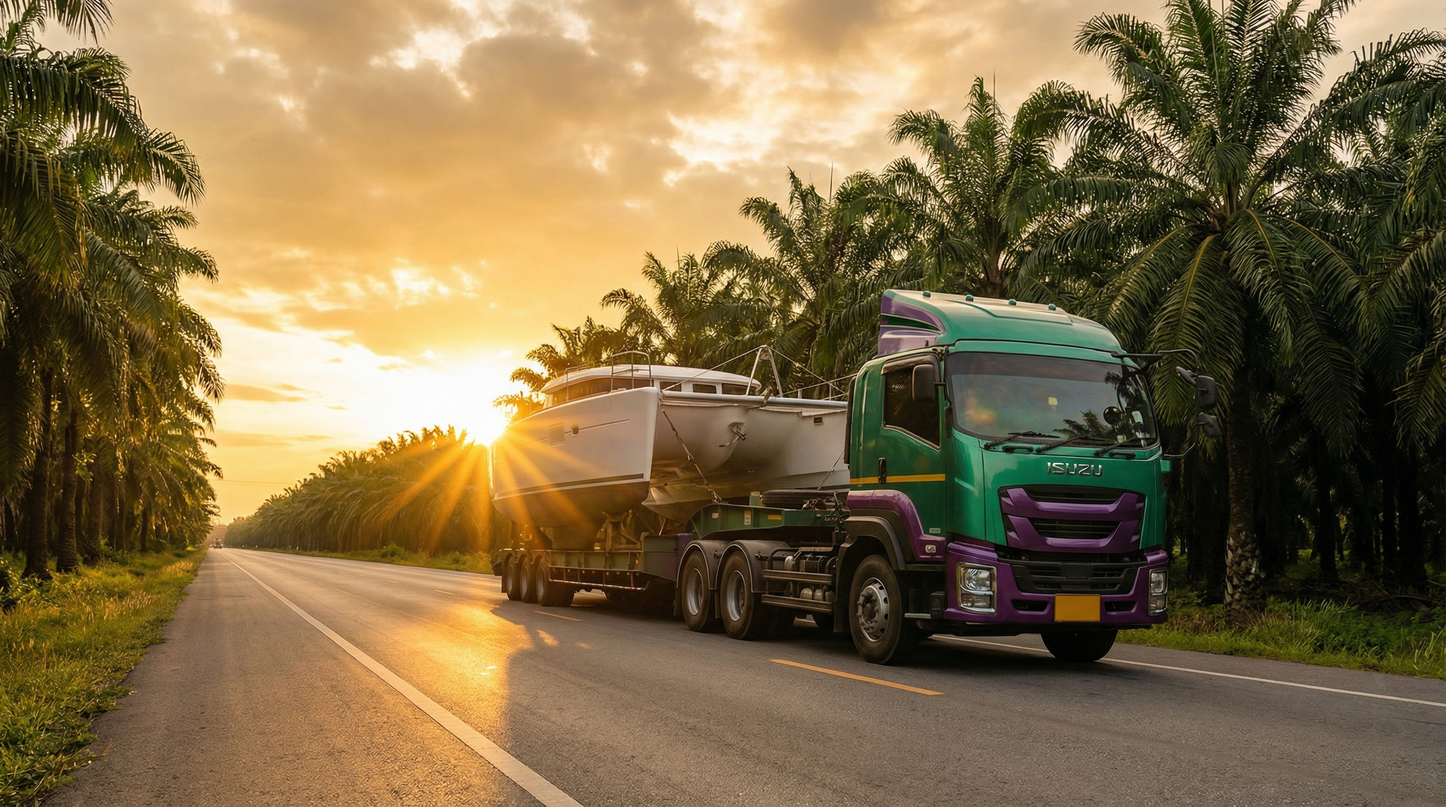
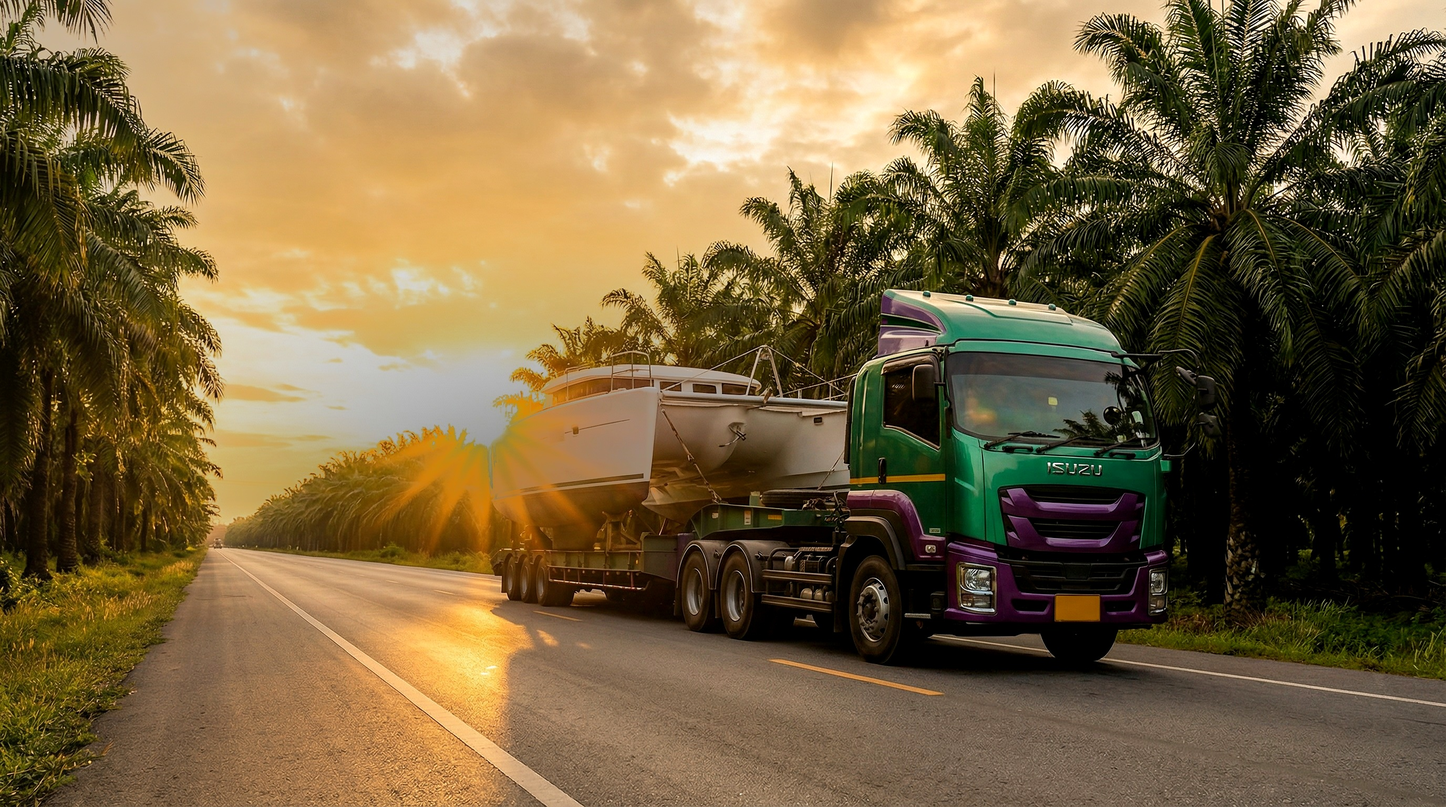
Hero: processed image (sun tamed, truck focal point), fixed insignia ornament (clean dot-diamond-dot)

diff --git a/client/src/pages/Home.tsx b/client/src/pages/Home.tsx
@@ -286,16 +286,16 @@ export default function Home() {
           >
 
             {/* ── TOP INSIGNIA ── */}
-            <div className="flex items-center justify-center gap-5 w-full max-w-xl mx-auto mb-5">
+            <div className="flex items-center justify-center gap-3 w-full max-w-xl mx-auto mb-5">
               <div className="flex-1 h-px" style={{ background: "linear-gradient(90deg, transparent, rgba(0,200,200,0.75))" }} />
-              {/* SVG refined ornament — dot · line · diamond · line · dot */}
-              <svg width="52" height="12" viewBox="0 0 52 12" fill="none" xmlns="http://www.w3.org/2000/svg">
-                <circle cx="3" cy="6" r="2" fill="rgba(0,200,200,0.9)" style={{ filter: "drop-shadow(0 0 4px rgba(0,200,200,0.9))" }} />
-                <line x1="7" y1="6" x2="19" y2="6" stroke="rgba(0,200,200,0.5)" strokeWidth="0.75"/>
-                <rect x="22" y="1.5" width="8" height="8" rx="0" transform="rotate(45 26 6)" fill="none" stroke="rgba(0,200,200,0.95)" strokeWidth="1.2" style={{ filter: "drop-shadow(0 0 5px rgba(0,200,200,0.8))" }} />
-                <line x1="33" y1="6" x2="45" y2="6" stroke="rgba(0,200,200,0.5)" strokeWidth="0.75"/>
-                <circle cx="49" cy="6" r="2" fill="rgba(0,200,200,0.9)" style={{ filter: "drop-shadow(0 0 4px rgba(0,200,200,0.9))" }} />
-              </svg>
+              {/* Ornament: dot · diamond · dot — no connector lines */}
+              <div className="flex items-center gap-2.5">
+                <div className="w-1.5 h-1.5 rounded-full flex-shrink-0" style={{ background: "rgba(0,200,200,1)", boxShadow: "0 0 6px rgba(0,200,200,1), 0 0 14px rgba(0,200,200,0.5)" }} />
+                <svg width="12" height="12" viewBox="0 0 12 12" fill="none" xmlns="http://www.w3.org/2000/svg" className="flex-shrink-0">
+                  <rect x="1.5" y="1.5" width="9" height="9" transform="rotate(45 6 6)" fill="none" stroke="rgba(0,200,200,0.95)" strokeWidth="1.3" style={{ filter: "drop-shadow(0 0 4px rgba(0,200,200,0.85))" }} />
+                </svg>
+                <div className="w-1.5 h-1.5 rounded-full flex-shrink-0" style={{ background: "rgba(0,200,200,1)", boxShadow: "0 0 6px rgba(0,200,200,1), 0 0 14px rgba(0,200,200,0.5)" }} />
+              </div>
               <div className="flex-1 h-px" style={{ background: "linear-gradient(90deg, rgba(0,200,200,0.75), transparent)" }} />
             </div>
 
@@ -331,15 +331,15 @@ export default function Home() {
             </div>
 
             {/* ── BOTTOM INSIGNIA ── */}
-            <div className="flex items-center justify-center gap-5 w-full max-w-xl mx-auto mb-7">
+            <div className="flex items-center justify-center gap-3 w-full max-w-xl mx-auto mb-7">
               <div className="flex-1 h-px" style={{ background: "linear-gradient(90deg, transparent, rgba(0,200,200,0.75))" }} />
-              <svg width="52" height="12" viewBox="0 0 52 12" fill="none" xmlns="http://www.w3.org/2000/svg">
-                <circle cx="3" cy="6" r="2" fill="rgba(0,200,200,0.9)" style={{ filter: "drop-shadow(0 0 4px rgba(0,200,200,0.9))" }} />
-                <line x1="7" y1="6" x2="19" y2="6" stroke="rgba(0,200,200,0.5)" strokeWidth="0.75"/>
-                <rect x="22" y="1.5" width="8" height="8" rx="0" transform="rotate(45 26 6)" fill="none" stroke="rgba(0,200,200,0.95)" strokeWidth="1.2" style={{ filter: "drop-shadow(0 0 5px rgba(0,200,200,0.8))" }} />
-                <line x1="33" y1="6" x2="45" y2="6" stroke="rgba(0,200,200,0.5)" strokeWidth="0.75"/>
-                <circle cx="49" cy="6" r="2" fill="rgba(0,200,200,0.9)" style={{ filter: "drop-shadow(0 0 4px rgba(0,200,200,0.9))" }} />
-              </svg>
+              <div className="flex items-center gap-2.5">
+                <div className="w-1.5 h-1.5 rounded-full flex-shrink-0" style={{ background: "rgba(0,200,200,1)", boxShadow: "0 0 6px rgba(0,200,200,1), 0 0 14px rgba(0,200,200,0.5)" }} />
+                <svg width="12" height="12" viewBox="0 0 12 12" fill="none" xmlns="http://www.w3.org/2000/svg" className="flex-shrink-0">
+                  <rect x="1.5" y="1.5" width="9" height="9" transform="rotate(45 6 6)" fill="none" stroke="rgba(0,200,200,0.95)" strokeWidth="1.3" style={{ filter: "drop-shadow(0 0 4px rgba(0,200,200,0.85))" }} />
+                </svg>
+                <div className="w-1.5 h-1.5 rounded-full flex-shrink-0" style={{ background: "rgba(0,200,200,1)", boxShadow: "0 0 6px rgba(0,200,200,1), 0 0 14px rgba(0,200,200,0.5)" }} />
+              </div>
               <div className="flex-1 h-px" style={{ background: "linear-gradient(90deg, rgba(0,200,200,0.75), transparent)" }} />
             </div>
 
